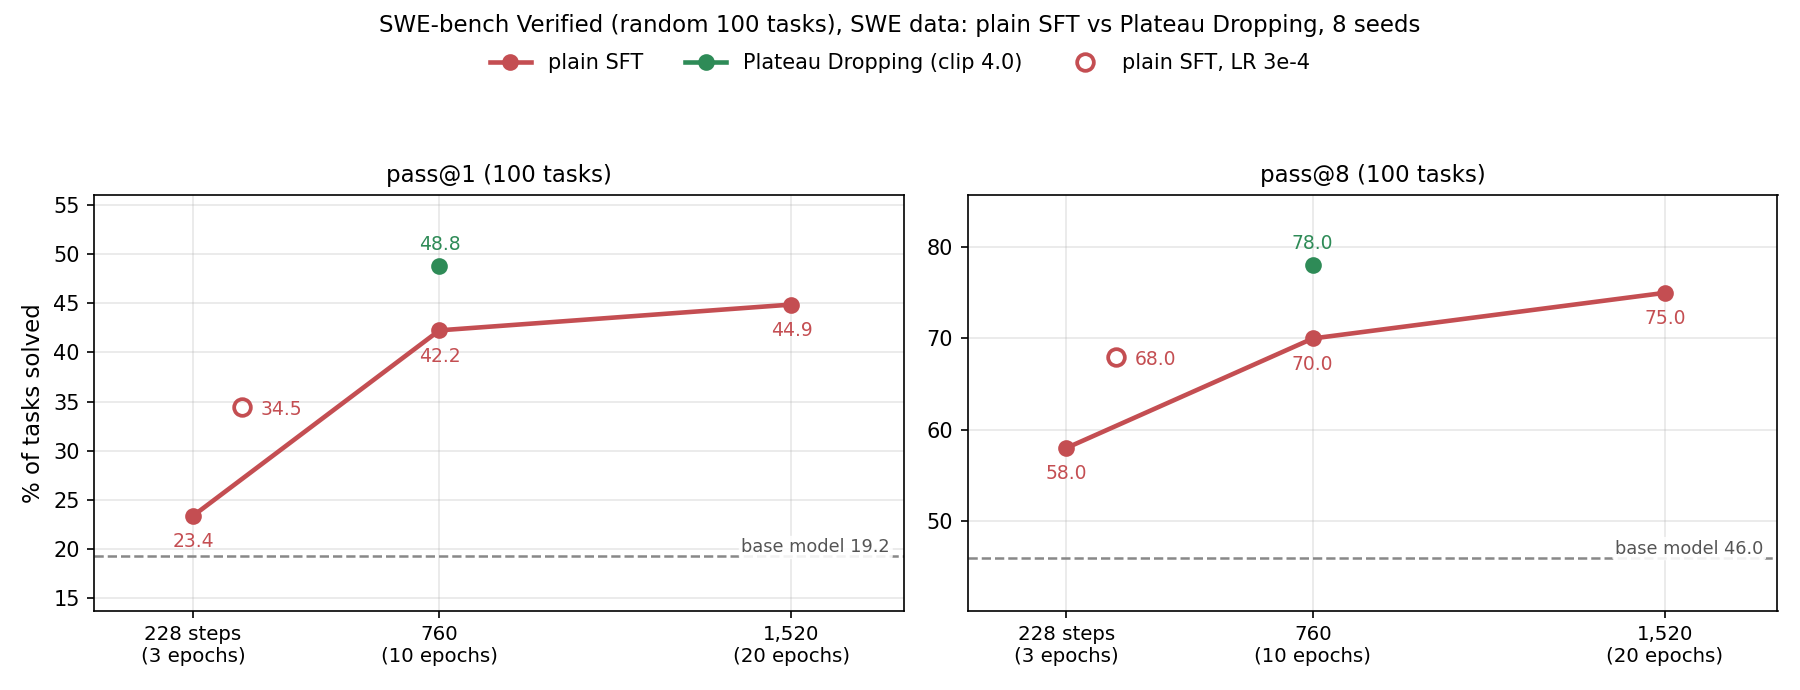
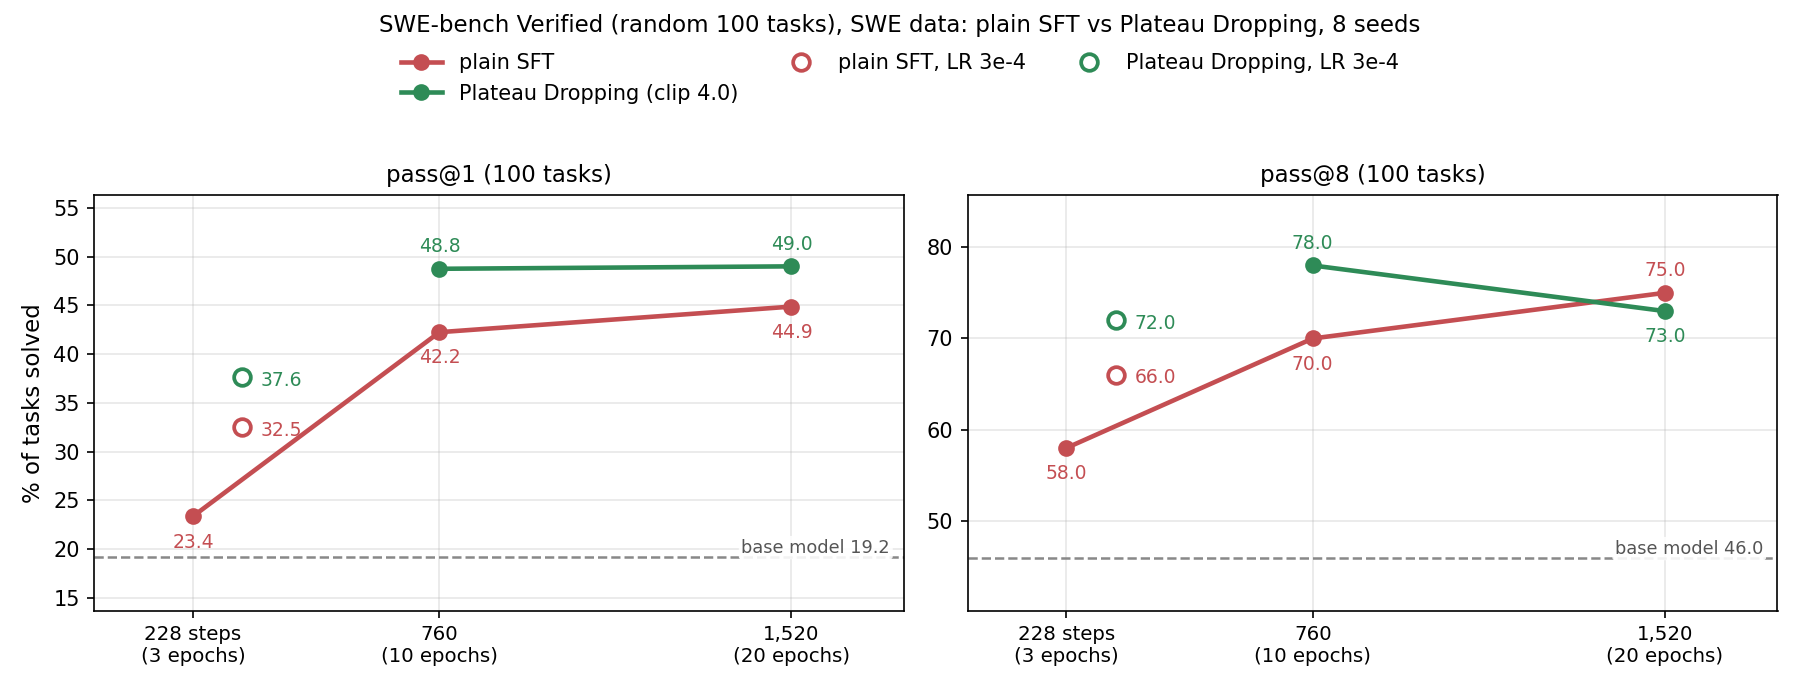
Plateau Dropping post: LR 3e-4 clip-4.0 pair and 20-epoch Plateau Dropping results
Claude-Session: https://claude.ai/code/session_018Ea4K6tyj913yCS93WC7Xj

diff --git a/_posts/2026-10-20-plateau-dropping.md b/_posts/2026-10-20-plateau-dropping.md
@@ -133,7 +133,7 @@ One change to the SWE-bench Verified grader: before running the tests, the stand
 
 ![Figure 2](/assets/img/blog/plateau-dropping/fig5_swebench_corrected.png)
 
-Figure 2. SWE-bench Verified (random 100 tasks), pass@1 and pass@8 (%) against training length for plain SFT (red) and Plateau Dropping (green), 8 seeds, all 100 tasks (Section 2.4); dashed: the base model; hollow markers: the 3-epoch pair at a learning rate of 3e-4 (both arms at clip 4.0; the Plateau Dropping marker appears when its evaluation finishes). Plateau Dropping runs are at gradient clip 4.0; its 3- and 20-epoch points are being rerun at that clip and appear when their evaluations finish.
+Figure 2. SWE-bench Verified (random 100 tasks), pass@1 and pass@8 (%) against training length for plain SFT (red) and Plateau Dropping (green), 8 seeds, all 100 tasks (Section 2.4); dashed: the base model; hollow markers: the 3-epoch pair at a learning rate of 3e-4 (both arms at clip 4.0). Plateau Dropping runs are at gradient clip 4.0; its 3-epoch point at that clip is pending.
 {: .caption}
 
 **Table 1.** SWE-bench Verified, pass@1 and pass@8 in %, 8 seeds, all 100 tasks (Section 2.4). Rows marked LR 3e-4 were trained at three times the default learning rate; at that rate plain SFT's gradient norm exceeds 1.0 on 43% of its steps, so both arms of those rows use clip 4.0, whereas at the default rate plain SFT uses the standard clip of 1.0 (Section 2.3). Every Plateau Dropping row is a run at gradient clip 4.0; the rows marked in progress are being rerun at that clip. Bold marks the best value at each training length.
@@ -143,22 +143,22 @@ Figure 2. SWE-bench Verified (random 100 tasks), pass@1 and pass@8 (%) against t
 | none | base model | 19.2 | 46.0 |
 | 3 epochs (228 steps) | + SFT | 23.4 | 58.0 |
 | 3 epochs (228 steps) | + Plateau Dropping | [clip-4.0 run in progress] | [clip-4.0 run in progress] |
-| 3 epochs (228 steps), LR 3e-4 | + SFT | 34.4 | 68.0 |
-| 3 epochs (228 steps), LR 3e-4 | + Plateau Dropping | [clip-4.0 run in progress] | [clip-4.0 run in progress] |
+| 3 epochs (228 steps), LR 3e-4 | + SFT | 32.5 | 66.0 |
+| 3 epochs (228 steps), LR 3e-4 | + Plateau Dropping | **37.6** | **72.0** |
 | 10 epochs (760 steps) | + SFT | 42.2 | 70.0 |
 | 10 epochs (760 steps) | + Plateau Dropping | **48.8** | **78.0** |
-| 20 epochs (1,520 steps) | + SFT | 44.9 | 75.0 |
-| 20 epochs (1,520 steps) | + Plateau Dropping | [clip-4.0 run in progress] | [clip-4.0 run in progress] |
+| 20 epochs (1,520 steps) | + SFT | 44.9 | **75.0** |
+| 20 epochs (1,520 steps) | + Plateau Dropping | **49.0** | 73.0 |
 
 The result the rest of the post rests on is the 10-epoch pair. After 10 nominal epochs on the same SWE data, Plateau Dropping reaches 48.8% pass@1 on SWE-bench Verified against 42.2% for plain SFT, and 78.0% against 70.0% at pass@8: 6.5 points at pass@1 (three standard errors, paired over tasks) and 8.0 at pass@8 (2.7 standard errors). The two runs' training-loss curves over all tokens are nearly indistinguishable (Figure 1), so the difference is not visible in training; it shows up in what the models can do, and most at pass@8.
 
 ### 3.2 Check 1: training budget
 
-Plain SFT on this data is strong and keeps improving: 20 nominal epochs take the base model from 19.2% to 44.9% pass@1 and from 46.0% to 75.0% pass@8, and the loss keeps falling throughout (Figure 1). The question is how Plateau Dropping's lead behaves along that curve. The 3- and 20-epoch Plateau Dropping runs are being completed at the method's clip setting (Section 2.3) and appear in Figure 2 and Table 1 when their evaluations finish; our first runs, before that setting was fixed, put the lead largest at 3 epochs and closing by 20 (Appendix A).
+Plain SFT on this data is strong and keeps improving: 20 nominal epochs take the base model from 19.2% to 44.9% pass@1 and from 46.0% to 75.0% pass@8, and the loss keeps falling throughout (Figure 1). The question is how Plateau Dropping's lead behaves along that curve. At 20 nominal epochs Plateau Dropping reaches 49.0% pass@1 against 44.9% for plain SFT (+4.1 ± 1.7, paired over tasks), while at pass@8 the two are level (73.0% against 75.0%, −2.0 ± 2.4). So the pass@1 lead holds through long training, but the pass@8 lead, largest at 10 epochs (+8.0), is gone by 20: with enough passes plain SFT catches up in coverage. The 3-epoch Plateau Dropping point at the method's clip setting is pending.
 
 ### 3.3 Check 2: a tuned baseline
 
-The runs above use a learning rate of 1e-4, which turns out to be low for a 228-step run. Repeating the 3-epoch plain-SFT run at 3e-4 (Table 1, rows marked LR 3e-4) lifts it by 11.0 points at pass@1 and 10.0 at pass@8, to 34.4% and 68.0%; it still sits 7.9 points below plain SFT at the default rate for 10 epochs, so the extra passes do most of the work there. The Plateau Dropping run at the higher rate is being evaluated, and the same pair at 10 epochs is training; together they say whether the gain survives a baseline trained at three times the rate.
+The runs above use a learning rate of 1e-4, which turns out to be low for a 228-step run. Repeating the 3-epoch pair at 3e-4 (Table 1, rows marked LR 3e-4) lifts plain SFT by 9.1 points at pass@1 and 8.0 at pass@8, to 32.5% and 66.0%; it still sits 9.7 points below plain SFT at the default rate for 10 epochs, so the extra passes do most of the work there. Plateau Dropping at the same rate reaches 37.6% and 72.0%, ahead of plain SFT by 5.1 points at pass@1 (±1.8, paired over tasks) and 6.0 at pass@8 (±3.0): the gain survives a baseline trained at three times the rate. The same pair at 10 epochs is being evaluated.
 
 ### 3.4 A second dataset: terminal benchmarks
 
@@ -211,7 +211,7 @@ On the terminal data plain SFT peaks at 220 steps on both benchmarks (TB-Lite 33
 | TB-Lite | SFT | 27.2 | 67.0 |
 | TB-Lite | TailSFT, per trajectory | 22.0 | 59.8 |
 
-TailSFT per trajectory is level with plain SFT at pass@1 on SWE-bench Verified (23.4% against 23.4%) and 7 points below it at pass@8 (51.0% against 58.0%, −7.0 ± 4.3 paired over tasks); on the terminal data it is 5 points below plain SFT at pass@1 on TB-Lite (22.0% against 27.2%) and level on Terminal-Bench 2.0 (9.9% against 10.2%), and 3 to 7 points below at pass@8. Three agent-aware variants from our first runs (the full drop share from the start, per agent step, per span) did no better. Two further baselines are being evaluated and will be added here: TailSFT with a smaller drop share (0.25), the setting the TailSFT paper found best on code, and a token-level TailSFT that applies the same reference-based rule to single tokens, the reference-snapshot counterpart of Plateau Dropping's history rule.
+TailSFT per trajectory is level with plain SFT at pass@1 on SWE-bench Verified (23.4% against 23.4%) and 7 points below it at pass@8 (51.0% against 58.0%, −7.0 ± 4.3 paired over tasks); on the terminal data it is 5 points below plain SFT at pass@1 on TB-Lite (22.0% against 27.2%) and level on Terminal-Bench 2.0 (9.9% against 10.2%), and 3 to 7 points below at pass@8. Three agent-aware variants from our first runs (the full drop share from the start, per agent step, per span) did no better. A token-level TailSFT, which applies the same reference-based rule to single tokens and is the reference-snapshot counterpart of Plateau Dropping's history rule, is being evaluated and will be added here.
 
 ### 3.6 A second starting checkpoint
 
@@ -231,7 +231,7 @@ The same 10-epoch pair is being trained from a stronger starting checkpoint (the
 
 ## 5. Conclusion
 
-Plateau Dropping is a small change to standard SFT: the trainer remembers each token's loss from its last two visits, and once that loss stops changing, the token is removed from the training loss until it changes again. On long-horizon agentic data it gives a better checkpoint from the same data and compute. At 10 nominal epochs on the SWE data it is 6.5 points above plain SFT at pass@1 and 8.0 at pass@8 (48.8% against 42.2%, 78.0% against 70.0%), with a training loss that looks the same, and the gain is largest at pass@8. Two checks are in progress on that result: how the lead behaves across training budgets (Section 3.2) and whether it survives a baseline trained at three times the learning rate (Section 3.3). On the terminal benchmarks the comparison is being completed (Section 3.4). Sequence-level filtering of the same data (TailSFT) does not help (Section 3.5). The cells marked in progress are runs being completed at the method's clip setting and will fill in over the coming days, together with the pair from a stronger starting checkpoint (Section 3.6).
+Plateau Dropping is a small change to standard SFT: the trainer remembers each token's loss from its last two visits, and once that loss stops changing, the token is removed from the training loss until it changes again. On long-horizon agentic data it gives a better checkpoint from the same data and compute. At 10 nominal epochs on the SWE data it is 6.5 points above plain SFT at pass@1 and 8.0 at pass@8 (48.8% against 42.2%, 78.0% against 70.0%), with a training loss that looks the same, and the gain is largest at pass@8. The pass@1 lead holds at 20 epochs (+4.1), while the pass@8 lead is gone by then (Section 3.2), and at three times the learning rate the 3-epoch lead holds (+5.1 at pass@1, +6.0 at pass@8; Section 3.3). On the terminal benchmarks the comparison is being completed (Section 3.4). Sequence-level filtering of the same data (TailSFT) does not help (Section 3.5). The cells marked in progress are runs being completed at the method's clip setting and will fill in over the coming days, together with the pair from a stronger starting checkpoint (Section 3.6).
 
 ## Appendix A: training bugs we found along the way
 
